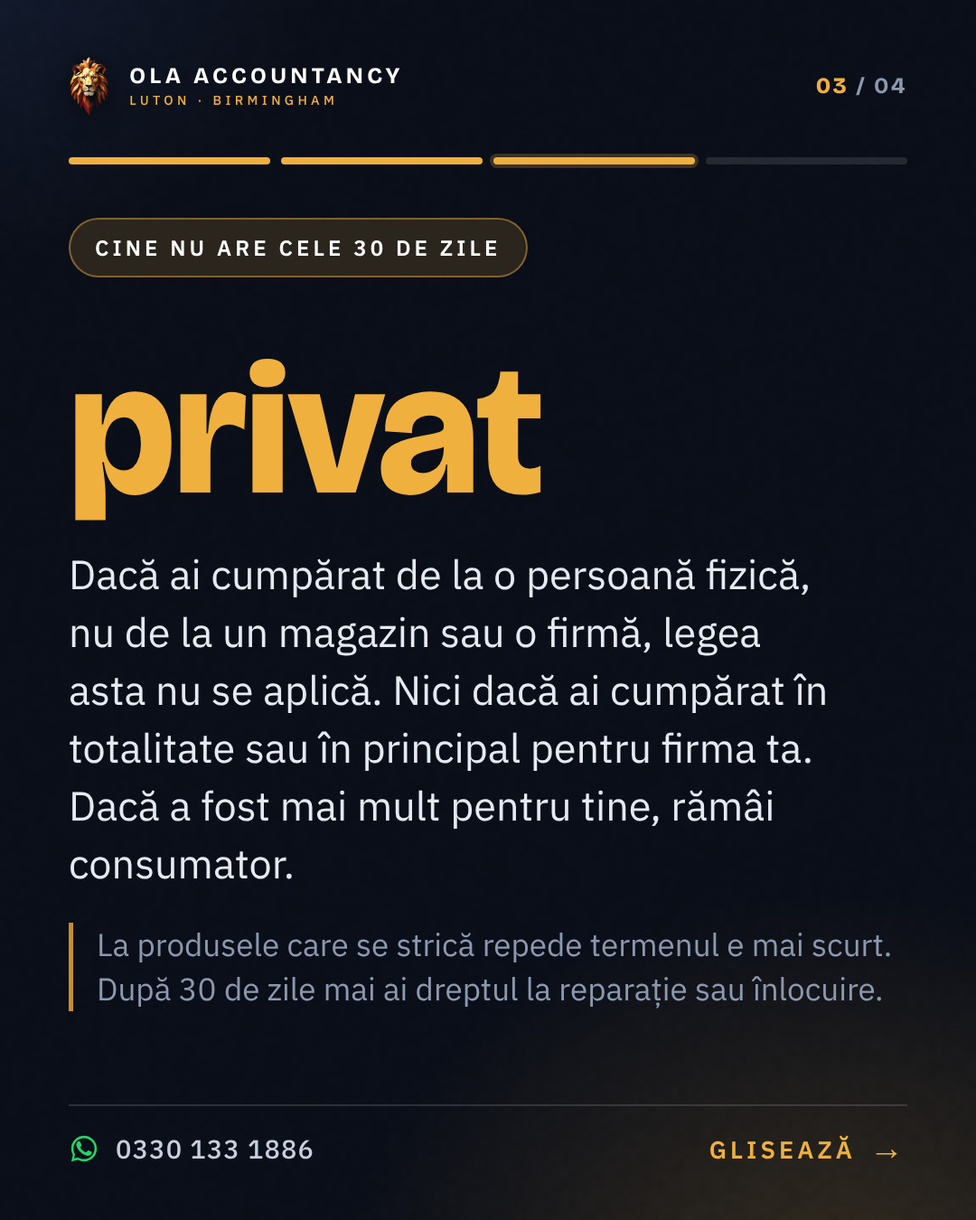
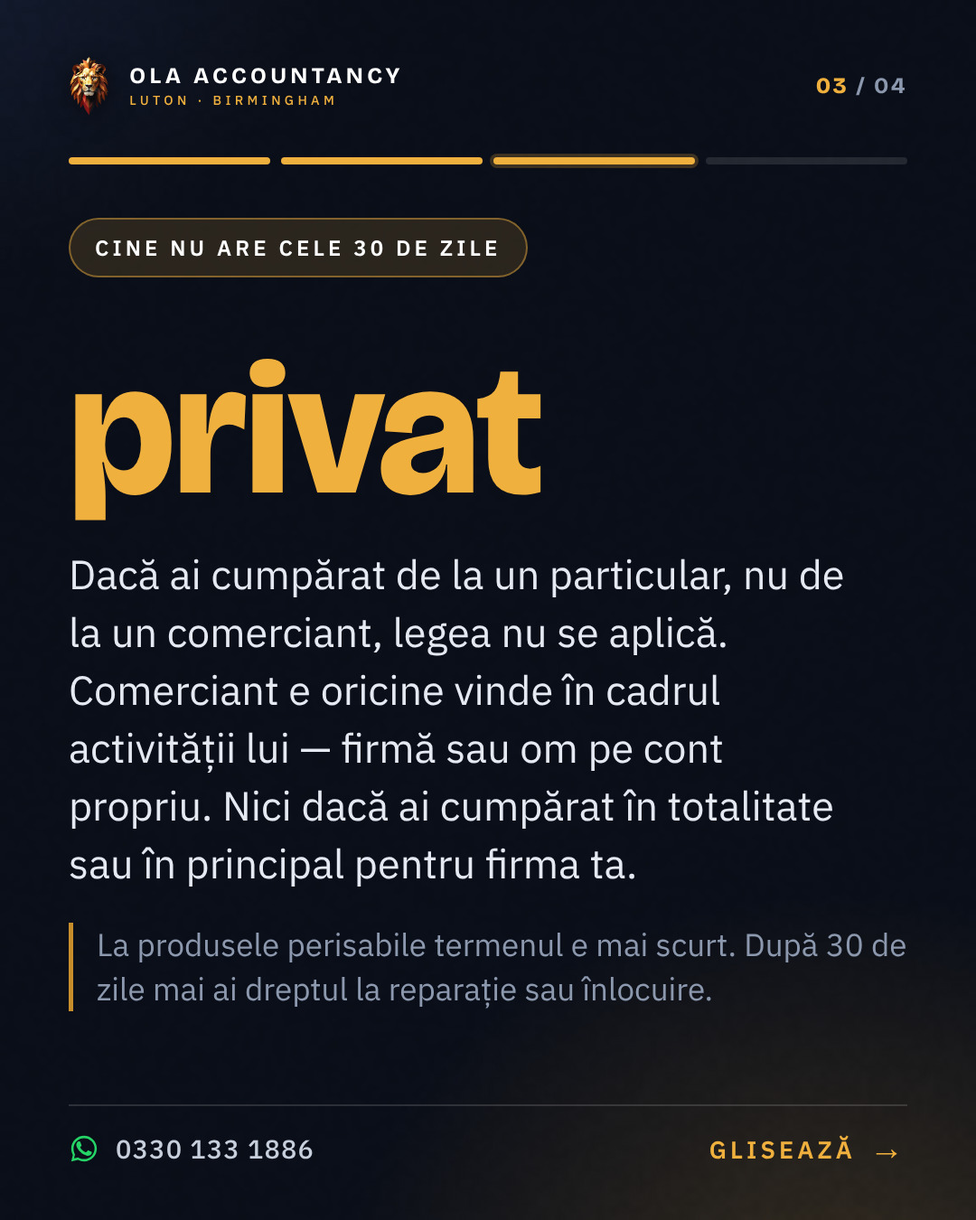
retur-30-zile: the trader test is the seller's purpose, in Romanian too
Five faults from the independent fact-checker, all at source.

1. The Romanian gave the wrong test for who the seller must be. "De la o
   persoană fizică, nu de la un magazin sau o firmă" draws the line at
   individual vs company; s.2(2) draws it at purpose — "a person acting
   for purposes relating to that person's trade, business, craft or
   profession". A self-employed plumber is a natural person and is a
   trader, and the old line told his customer the Act did not apply.
   Card 3, the long caption and the Threads caption now say particular
   vs comerciant and define comerciant as anyone selling in the course
   of their activity, firm or one-man business.
2. Card 2 dropped "undue" from s.20(15): "fără întârziere" became "fără
   întârziere nejustificată", which is what the caption already said.
3. "Se strică" is break down, not perish. s.22(4) is about goods "of a
   kind that can reasonably be expected to perish after a shorter
   period" — now "perisabile", not any product that fails early.
4. The LinkedIn day-29 example asserted an outcome s.22(7) does not
   give: the 7 days turn on the goods supplied in response still not
   conforming. The rule stays, the example goes, and s.23(6) is named —
   having asked for a repair you cannot reject until the trader has had
   a reasonable time to carry it out.
5. The Romanian third ground was "nu face ce ar trebui", a general
   "doesn't work" test. s.10(1) requires a particular purpose made known
[…]

Changed region(s): [[0.0611, 0.4667, 0.9167, 0.84]]

diff --git a/pipeline/carousel/captions.py b/pipeline/carousel/captions.py
@@ -669,33 +669,33 @@ C["employment-allowance-10500"] = dict(
 
 Nu vine singură. Se cere din programul de salarii, pentru un singur stat de plată — și se cere DIN NOU la fiecare an fiscal. Nu se reportează.
 
-Dacă n-ai cerut-o deloc, se poate cere retroactiv până la 4 ani — pentru 2022/23, până pe 5 aprilie 2027. Dar un an vechi are alte condiții: £10.500 e suma din 2025/26 încoace, iar între 6 aprilie 2022 și 5 aprilie 2025 era £5.000 pe an. Pentru 2024/25 sau mai vechi poți cere doar dacă National Insurance-ul Class 1 al firmei din anul anterior a fost sub £100.000 — barieră căzută în aprilie 2025, deci din 2025/26 nu mai există limită.
+Dacă n-ai cerut-o deloc, se poate cere retroactiv până la 4 ani — pentru 2022/23, până pe 5 aprilie 2027. Dar un an vechi are alte condiții: £10.500 e suma din 2025/26 încoace, iar între 6 aprilie 2022 și 5 aprilie 2025 era £5.000 pe an. Pentru 2024/25 sau mai vechi poți cere doar dacă Class 1-ul firmei din anul anterior a fost sub £100.000 — barieră căzută în aprilie 2025, deci din 2025/26 nu mai există limită.
 
 Cine NU poate cere deloc — firma:
-• Firma cu un singur director, dacă el e singurul angajat cu National Insurance Class 1 secundar — partea firmei, peste Secondary Threshold.
+• Firma Ltd cu un singur director, dacă el e singurul angajat cu National Insurance Class 1 secundar — partea firmei, peste Secondary Threshold. Pe cont propriu nu se aplică.
 • Instituțiile publice fără statut de caritate — primărie, consiliu local sau parohial — oricât de puțin lucrează pentru public.
 • Orice alt angajator cu peste jumătate din muncă pentru sectorul public — dar organizațiile de caritate pot cere oricum.
 • Într-un grup de firme sau de organizații de caritate legate între ele, cere una singură.
 
-Angajați pe care NU îi poți include — firma rămâne eligibilă pentru ceilalți:
+Angajați pe care NU îi poți include — firma rămâne eligibilă pentru ceilalți, dacă mai are alți angajați:
 • Angajatul care intră sub regulile off-payroll (IR35).
 • Cineva angajat pentru treburi casnice — o bonă, un grădinar — dacă nu e îngrijitor.
 
-Pot cere: firmele cu mai puțin de jumătate din muncă pentru sectorul public, organizațiile de caritate, cluburile sportive de amatori și cine angajează un îngrijitor.
+Pot cere: firmele cu sub jumătate din muncă pentru sectorul public, organizațiile de caritate, cluburile sportive de amatori și cine angajează un îngrijitor.
 
 Se aplică în tot Regatul Unit. Se cere pentru anul fiscal în curs.
 
 Nu știi dacă firma ta poate cere?""",
  th="""Employment Allowance taie până la £10.500 din National Insurance-ul Class 1 al firmei. Se cere din programul de salarii — și din nou la fiecare an fiscal. Nu se reportează.
 
-Cine NU poate cere: firma cu un singur director, dacă el e singurul angajat cu National Insurance Class 1 secundar — partea firmei.""",
+Cine NU poate cere: firma Ltd cu un singur director, dacă el e singurul angajat cu National Insurance Class 1 secundar — partea firmei.""",
  li="""Employment Allowance takes up to £10,500 off an employer's Class 1 National Insurance in a tax year. It is never automatic — it is claimed through payroll software, against one payroll only.
 
-And it is claimed again every single tax year, by Employer Payment Summary. It does not carry forward, so an employer who claimed last year and assumed it rolled over silently loses up to £10,500.
+And it is claimed again every single tax year, by Employer Payment Summary. It does not carry forward.
 
 If you never claimed at all, you can go back up to 4 years after the end of the tax year concerned — a 2022 to 2023 claim has to be made by 5 April 2027. But an earlier year is not claimed on today's terms. The allowance is £10,500 for 2025 to 2026 onwards; for each year between 6 April 2022 and 5 April 2025 it was £5,000. And to claim for 2024 to 2025 or earlier, your employers' Class 1 National Insurance liabilities must have been less than £100,000 in the previous tax year. From 2025 to 2026 onwards there is no limit — that bar was lifted in April 2025.
 
-One outright bar sits on that same page: for some businesses the allowance counts as de minimis state aid, capped over a 3-year period, and a business over the cap cannot claim. GOV.UK says that is likely where your business is both located in Northern Ireland and makes or sells goods or wholesale electricity.
+One more bar sits on that past-years page, and nowhere else: for some businesses the allowance counted as de minimis state aid, capped over 3 years, and a business over the cap could not claim — most likely where the business is both located in Northern Ireland and makes or sells goods or wholesale electricity. HMRC asks the state-aid question only if you are claiming for a previous year.
 
 Who cannot claim at all — the employer. The first is the trap for small companies:
 • A company with a single director who is its only employee liable for secondary Class 1 National Insurance.
@@ -703,39 +703,39 @@ Who cannot claim at all — the employer. The first is the trap for small compan
 • Any other employer doing more than half its work in or for the public sector — unless it is a charity, which can claim even when its functions are wholly or mainly of a public nature.
 • Within a group of connected companies or connected charities only one may claim, and an employer running several payrolls claims against only one of them.
 
-Employees you cannot include in the claim — a separate rule. The employer stays eligible and keeps claiming on everyone else:
+Employees you cannot include in the claim — a separate rule. The employer keeps claiming on everyone else, if there is anyone else — HMRC says an employer of domestic staff alone cannot claim at all:
 • An employee whose earnings fall within the off-payroll working rules.
 • Someone employed for personal, household or domestic work — a nanny, a gardener — unless they are a care or support worker.
 
 Who can: businesses doing less than half their work in the public sector, charities including community amateur sports clubs, and employers of a care or support worker.
 
-UK-wide, for the current tax year — subject to that Northern Ireland state-aid cap.
+UK-wide, for the current tax year.
 
 Want your payroll checked against the conditions?""",
  bsky="""Employment Allowance: up to £10,500 off employer Class 1 National Insurance, claimed again every tax year. It never carries forward.""",
  pin_title="Employment Allowance: £10,500 and who cannot claim",
- pin="""UK Employment Allowance takes up to £10,500 off an employer's Class 1 National Insurance in a tax year. It is never automatic and must be claimed again every new tax year. Which employers cannot claim: a company whose single director is its only employee liable for secondary Class 1, and an employer doing over half its work in the public sector unless it is a charity. Separately: the employer stays eligible but cannot include an employee in personal, household or domestic work — a nanny, a gardener — unless they are a care or support worker.""",
+ pin="""UK Employment Allowance takes up to £10,500 off an employer's Class 1 National Insurance in a tax year. It is never automatic and must be claimed again every tax year. Which employers cannot claim: a company whose single director is its only employee liable for secondary Class 1, and an employer doing over half its work in the public sector unless it is a charity. Separately, a nanny or gardener in personal, household or domestic work cannot be included unless they are a care or support worker; an employer of domestic staff alone cannot claim at all.""",
  source="gov.uk/claim-employment-allowance/eligibility, /claim-for-past-years, plus HMRC's further employer guidance",
 )
 
 C["cold-weather-25"] = dict(
- ro="""Cold Weather Payment e £25 pentru fiecare perioadă de 7 zile la rând în care temperatura medie din zona ta e zero grade sau mai jos — măsurată sau prognozată. Nu se depune nicio cerere: vine automat, în contul în care intră ajutorul, în 14 zile lucrătoare.
+ ro="""Cold Weather Payment e £25 pentru fiecare 7 zile la rând în care temperatura medie din zona ta e zero grade sau mai jos — măsurată sau prognozată. Nu se depune nicio cerere: vine automat, în contul în care intră ajutorul, în 14 zile lucrătoare.
 
 Se numără gerul dintre 1 noiembrie 2026 și 31 martie 2027, după codul poștal.
 
-Un lucru TREBUIE făcut, chiar dacă cerere nu se depune: pe Universal Credit sau pe ESA legat de venit, dacă s-a născut un copil sau dacă un copil sub 5 ani s-a mutat în casă, schimbarea de situație se anunță. Fără anunț, plata nu mai vine automat — și tocmai copilul sub 5 ani e condiția care dă dreptul.
+Un lucru TREBUIE făcut: pe Universal Credit sau pe ESA legat de venit, dacă s-a născut un copil sau dacă un copil sub 5 ani s-a mutat în casă, schimbarea de situație se anunță. Fără anunț, plata nu mai vine automat — și tocmai copilul sub 5 ani dă dreptul.
 
 Ajutoarele listate de GOV.UK:
 • Pension Credit
-• ESA legat de venit, cu condițiile ei (grupul de activitate sau de sprijin, un supliment, un copil cu dizabilitate ori un copil sub 5 ani)
+• ESA legat de venit (grupul de activitate sau de sprijin, un supliment de dizabilitate severă sau sporită ori de pensionar, un copil cu dizabilitate ori unul sub 5 ani)
 • Universal Credit, în condițiile de mai jos
-• Support for Mortgage Interest, tratat ca ajutor care califică — și numai cu un supliment, un copil cu dizabilitate ori unul sub 5 ani în casă
+• Support for Mortgage Interest, dacă solicitantul e tratat ca primind un ajutor care califică — și numai cu un supliment de dizabilitate severă sau sporită ori de pensionar, un copil cu dizabilitate ori unul sub 5 ani în casă
 
-Pe Universal Credit condițiile sunt două și trebuie îndeplinite amândouă: nici solicitantul, nici partenerul să nu fie angajat sau cu afacere activă („gainfully self-employed"), ȘI solicitantul sau partenerul să aibă o problemă de sănătate ori un handicap cu capacitate limitată de muncă, sau un copil sub 5 ani în casă. Excepție: cu suma pentru un copil cu dizabilitate în dosar, dreptul există indiferent dacă cineva muncește.
+Pe Universal Credit, amândouă condițiile: nici solicitantul, nici partenerul să nu fie angajat sau cu afacere activă („gainfully self-employed"), ȘI unul din ei să aibă o problemă de sănătate ori un handicap cu capacitate limitată de muncă, sau un copil sub 5 ani în casă. Excepție: cu suma pentru un copil cu dizabilitate în dosar, dreptul există indiferent dacă cineva muncește.
 
 Cine NU primește:
 • Cine locuiește în Scoția — acolo nu există. Cine ia un ajutor care dă dreptul primește Winter Heating Payment, o dată pe iarnă, automat și indiferent de vreme.
-• Pe Universal Credit, dosarul care nu bifează amândouă condițiile și nu are suma pentru un copil cu dizabilitate.
+• Pe Universal Credit, dosarul fără amândouă condițiile și fără suma pentru un copil cu dizabilitate.
 
 Se aplică în Anglia, Țara Galilor și Irlanda de Nord.
 
@@ -774,37 +774,37 @@ Want the official page to check it on?""",
 
 # ----------------------------------------------------------------- 15
 C["retur-30-zile"] = dict(
- ro="""Dacă un produs cumpărat de la un magazin sau o firmă e defect, nu e cum l-a descris vânzătorul sau nu face ce ar trebui, în primele 30 de zile poți cere banii înapoi. Nu doar o reparație — banii. E în Consumer Rights Act 2015, legea, nu politica magazinului.
+ ro="""Dacă un produs cumpărat de la un comerciant e defect, nu e cum l-a descris vânzătorul sau nu face ce i-ai spus că ai nevoie, în primele 30 de zile poți cere banii înapoi — nu doar o reparație. E legea, Consumer Rights Act 2015, nu politica magazinului.
 
-Cum se numără cele 30 de zile: încep a doua zi după ce produsul e al tău și ți-a fost livrat. Dacă trebuia montat sau instalat, de a doua zi după ce vânzătorul îți spune că s-a terminat.
+Cele 30 de zile încep a doua zi după ce produsul e al tău și ți-a fost livrat. Dacă trebuia montat, de a doua zi după ce vânzătorul îți spune că s-a terminat.
 
-Partea pe care puțini o știu: dacă în acest timp ceri o reparație sau o înlocuire, numărătoarea se oprește cât aștepți și pornește de unde a rămas. Iar dacă produsul vine tot defect, ai cel puțin 7 zile de atunci.
+Puțini știu asta: dacă în acest timp ceri o reparație sau o înlocuire, numărătoarea se oprește cât aștepți și pornește de unde a rămas. Iar dacă produsul vine tot defect, ai cel puțin 7 zile de atunci.
 
 Banii trebuie dați fără întârziere nejustificată și în cel mult 14 zile de când vânzătorul e de acord că ți se cuvin.
 
 Cine NU are cele 30 de zile:
-• Dacă ai cumpărat de la o persoană fizică, nu de la un magazin sau o firmă. Legea se aplică doar între un comerciant și un consumator.
+• Dacă ai cumpărat de la un particular, nu de la un comerciant — adică de la cineva care vinde în cadrul activității lui, firmă sau om pe cont propriu. Legea se aplică doar între un comerciant și un consumator.
 • Dacă ai cumpărat în totalitate sau în principal pentru afacerea ta. Dacă a fost mai mult pentru tine, rămâi „consumator".
 
 Două lucruri care NU îți iau cele 30 de zile:
-• Un defect arătat de vânzător înainte de cumpărare, sau vizibil la verificarea făcută de tine, nu mai poate fi reclamat ca proastă calitate — dar ceri banii dacă produsul nu e cum l-a descris sau nu face ce i-ai spus că ai nevoie.
-• Produsele care se strică mai repede au același drept, doar cu termen mai scurt — cât se poate aștepta rezonabil să țină chiar produsul acela, nu o listă fixă.
+• Un defect arătat de vânzător înainte de cumpărare, sau vizibil la verificarea ta, nu mai poate fi reclamat ca proastă calitate — dar ceri banii dacă produsul nu e cum l-a descris sau nu face ce i-ai spus că ai nevoie.
+• Produsele perisabile, care se alterează repede, au același drept, doar cu termen mai scurt — cât se poate aștepta rezonabil să țină acel produs, nu o listă fixă.
 
-După cele 30 de zile nu rămâi fără nimic: ai dreptul la reparație sau înlocuire, iar dacă nici asta nu merge, la o reducere de preț sau la returnarea produsului.
+După cele 30 de zile îți rămâne dreptul la reparație sau înlocuire, iar dacă nici asta nu merge, la o reducere de preț sau la returnarea produsului.
 
 Se aplică în tot Regatul Unit: Anglia, Țara Galilor, Scoția și Irlanda de Nord.
 
 Vrei să citești legea în original?""",
- th="""Produs defect cumpărat de la un magazin sau o firmă? În primele 30 de zile poți cere banii înapoi, nu doar o reparație. Banii vin în cel mult 14 zile de când vânzătorul e de acord.
+ th="""Produs defect cumpărat de la un comerciant? În primele 30 de zile poți cere banii înapoi, nu doar o reparație. Banii vin în cel mult 14 zile de când vânzătorul e de acord.
 
-Dacă ai cumpărat de la o persoană fizică, nu de la o firmă, legea asta nu se aplică.""",
+Comerciant e oricine vinde în cadrul activității lui, firmă sau om pe cont propriu. De la un particular, legea nu se aplică.""",
  li="""The short-term right to reject is 30 days, and most people spend it without knowing they had it.
 
 If goods bought from a trader are faulty, not as described, or not fit for a purpose you made known, the Consumer Rights Act 2015 gives you 30 days to reject them and take a refund — not a repair, not a credit note.
 
 How the 30 days are counted: they begin the day after ownership or possession has passed to you and the goods have been delivered. Where the contract required installation, they begin the day after the trader tells you it is done.
 
-The part almost nobody knows: if you ask for or agree to a repair or a replacement inside that window, the clock stops for the waiting period and resumes where it left off. And if what the trader supplies in response still does not conform, section 22(7) makes the limit 7 days after the waiting period ends — or the original limit extended by that period, if that is later. A repair asked for on day 29 leaves 7 days, not one.
+The part almost nobody knows: if you ask for or agree to a repair or a replacement inside that window, the clock stops for the waiting period and resumes where it left off. And if what the trader supplies in response still does not conform, section 22(7) makes the limit 7 days after the waiting period ends — or the original limit extended by that period, if that is later. That is the rule for a repair that fails: if it works, what is left is the days that were left. And section 23(6) runs the other way: once you have asked for a repair, you cannot reject until the trader has had a reasonable time to carry it out, unless that would significantly inconvenience you.
 
 A refund must be given without undue delay and in any event within 14 days of the trader agreeing you are entitled to one.
 
@@ -812,7 +812,7 @@ Who does not have the 30 days:
 • Anyone who bought from a private individual rather than a trader. Part 1 applies to a contract between a trader and a consumer, so a private sale sits outside it entirely.
 • Anyone buying for purposes wholly or mainly inside their own business — not a consumer for these purposes.
 
-Two things that do NOT take the 30 days away, although they are often read as if they did:
+Two things that do NOT take the 30 days away:
 • A fault specifically drawn to the buyer's attention before the contract, or one an examination the buyer actually made ought to have revealed. Section 9(4) takes that fault outside the satisfactory quality term only. The other two grounds are untouched: if the goods are not as described, or not fit for a purpose made known to the trader, the 30-day right to reject is still there.
 • Goods that can reasonably be expected to perish sooner. They carry the same right on a shorter period — the end of the period they can reasonably be expected to last. The Act names no categories: the test is applied to the goods actually bought.
 

diff --git a/pipeline/carousel/topics.py b/pipeline/carousel/topics.py
@@ -1118,12 +1118,12 @@ COLD_WEATHER = dict(
     dict(type="hook",
          kicker="Iarna 2026/27 · Cold Weather Payment",
          h1="<em>£25</em> pentru 7 zile la rând de ger.",
-         say="Dacă primești unul dintre câteva ajutoare, îndeplinești condițiile lui și în zona ta media e zero grade sau mai jos șapte zile la rând, banii vin automat în cont. Cerere nu se depune — dar un copil nou în casă se anunță."),
+         say="Dacă primești unul dintre câteva ajutoare, îndeplinești condițiile lui și în zona ta media e zero grade sau mai jos șapte zile la rând, de regulă banii vin automat în cont. Cerere nu se depune — dar un copil nou în casă se anunță."),
     dict(type="step", step="Pe ce ajutoare se dă", fig="4",
          say="Pension Credit, Universal Credit, Employment and Support Allowance legat de venit, sau Support for Mortgage Interest. Fiecare cu propriile condiții.",
          note="Banii vin în <b>14 zile lucrătoare</b>. Gerul se numără între 1 noiembrie 2026 și 31 martie 2027, după codul poștal. În Scoția nu există: cine ia un ajutor care dă dreptul primește Winter Heating Payment, o dată pe iarnă."),
     dict(type="step", step="Cine NU primește", fig="2 condiții",
-         say="Pe Universal Credit, amândouă: solicitantul și partenerul să nu fie angajați ori pe cont propriu ca ocupație principală, regulat și cu profit, ȘI unul din ei cu boală care limitează munca sau copil sub 5 ani.",
+         say="Pe Universal Credit, amândouă: solicitantul și partenerul să nu fie angajați ori pe cont propriu ca ocupație principală, regulat și cu profit, ȘI unul din ei cu „capacitate limitată de muncă” stabilită oficial, sau copil sub 5 ani.",
          note="Cu suma pentru un copil cu dizabilitate se dă oricum. Un copil nou-născut sau un copil sub 5 ani mutat în casă se anunță — altfel nu mai vine automat."),
   ],
   CTA_RO=dict(type="cta",
@@ -1136,7 +1136,7 @@ COLD_WEATHER = dict(
     dict(type="hook",
          kicker="Winter 2026/27 · Cold Weather Payment",
          h1="<em>£25</em> for each 7 days running at zero or below.",
-         say="If you get one of a short list of benefits, meet that benefit's own conditions, and the average temperature where you live sits at zero or below for seven days running, money goes into your account. Nothing to claim — but a new child in the house has to be reported."),
+         say="If you get one of a short list of benefits, meet that benefit's own conditions, and the average temperature where you live sits at zero or below for seven days running, you'll usually get the money in your account. Nothing to claim — but a new child in the house has to be reported."),
     dict(type="step", step="Which benefits it runs on", fig="4",
          say="Pension Credit, Universal Credit, income-related Employment and Support Allowance, or Support for Mortgage Interest — each with its own conditions.",
          note="Paid within <b>14 working days</b>, for cold spells from 1 Nov 2026 to 31 Mar 2027, by postcode. Not in Scotland — a qualifying benefit brings Winter Heating Payment there, once a winter."),
@@ -1204,6 +1204,19 @@ COLD_WEATHER = dict(
      "legislation.gov.uk was not reachable from the repair session's proxy, so the quotations "
      "here are the fact-checker's, not re-read in that session",
      "https://www.legislation.gov.uk/uksi/1988/1724", "2026-11-07"),
+    ("Re-read for round three, and legislation.gov.uk WAS reachable this time. Reg "
+     "1A(3)(f)(ii): \"P has limited capability for work or limited capability for work and "
+     "work-related activity as construed in accordance with regulations 39 and 40 of the "
+     "Universal Credit Regulations 2013\" — so GOV.UK's \"limited capability for work (with or "
+     "without work-related activity)\" is a formal determination under those regulations and "
+     "not a description of being unwell. No card may render it as an illness that limits work. "
+     "Reg 1A(4) also bars a person residing in a care home, an independent hospital, an "
+     "Abbeyfield Society establishment or Polish Resettlement Act 1947 accommodation, except "
+     "where the under-5 or disabled-child limb applies, and reg 2(6) bars payment more than 26 "
+     "weeks after the winter period ends. None of that is under GOV.UK's Eligibility heading, "
+     "which is why every GOV.UK benefit heading reads \"You'll usually get Cold Weather "
+     "Payments if...\" — the hedge is what the cards carry, not the detail",
+     "https://www.legislation.gov.uk/uksi/1988/1724/regulation/1A", "2026-11-07"),
   ],
   SCOPE=dict(
     nation="England, Wales and Northern Ireland only. NOT Scotland — GOV.UK states plainly "
@@ -1270,13 +1283,13 @@ RETURN_30_DAYS = dict(
     dict(type="hook",
          kicker="Drepturile cumpărătorului · 30 de zile",
          h1="Ai <em>30 de zile</em> să ceri banii înapoi pe un produs defect.",
-         say="Nu e politica magazinului, e legea: Consumer Rights Act 2015. Dacă produsul e defect, nu e cum l-a descris vânzătorul sau nu face ce ar trebui, ceri banii — nu doar o reparație."),
+         say="Nu e politica magazinului, e legea: Consumer Rights Act 2015. Dacă produsul e defect, nu e cum l-a descris vânzătorul sau nu face ce i-ai spus că ai nevoie, ceri banii — nu doar o reparație."),
     dict(type="step", step="Cele 30 de zile, exact", fig="30",
          say="Se numără de a doua zi după ce ai primit produsul și a devenit al tău. Dacă ceri reparație sau înlocuire, numărătoarea se oprește cât aștepți — iar dacă produsul primit e tot defect, ai cel puțin 7 zile de atunci.",
-         note="Banii trebuie dați fără întârziere și în cel mult <b>14 zile</b> de când vânzătorul e de acord că ți se cuvin."),
+         note="Banii trebuie dați fără întârziere nejustificată și în cel mult <b>14 zile</b> de când vânzătorul e de acord că ți se cuvin."),
     dict(type="step", step="Cine NU are cele 30 de zile", fig="privat",
-         say="Dacă ai cumpărat de la o persoană fizică, nu de la un magazin sau o firmă, legea asta nu se aplică. Nici dacă ai cumpărat în totalitate sau în principal pentru firma ta. Dacă a fost mai mult pentru tine, rămâi consumator.",
-         note="La produsele care se strică repede termenul e mai scurt. După 30 de zile mai ai dreptul la reparație sau înlocuire."),
+         say="Dacă ai cumpărat de la un particular, nu de la un comerciant, legea nu se aplică. Comerciant e oricine vinde în cadrul activității lui — firmă sau om pe cont propriu. Nici dacă ai cumpărat în totalitate sau în principal pentru firma ta.",
+         note="La produsele perisabile termenul e mai scurt. După 30 de zile mai ai dreptul la reparație sau înlocuire."),
   ],
   CTA_RO=dict(type="cta",
     kicker="Drepturile cumpărătorului · 30 de zile",
@@ -1317,6 +1330,18 @@ RETURN_30_DAYS = dict(
      "is longer), within which they can still exercise the short-term right to reject if "
      "the goods still breach the standards set by the Act.\"",
      "https://www.legislation.gov.uk/ukpga/2015/15/section/22/notes", "2026-11-07"),
+    ("Section 2(2): \"'Trader' means a person acting for purposes relating to that person's "
+     "trade, business, craft or profession, whether acting personally or through another person "
+     "acting in the trader's name or on the trader's behalf.\" The test is the seller's purpose, "
+     "not whether the seller is a natural person or a company: a sole trader, a self-employed "
+     "tradesman or a market trader is a person and is a trader. Section 2(7): \"'Business' "
+     "includes the activities of any government department or local or public authority.\"",
+     "https://www.legislation.gov.uk/ukpga/2015/15/section/2", "2026-11-07"),
+    ("Section 23(6): \"A consumer who requires or agrees to the repair of goods cannot require "
+     "the trader to replace them, or exercise the short-term right to reject, without giving the "
+     "trader a reasonable time to repair them (unless giving the trader that time would cause "
+     "significant inconvenience to the consumer).\"",
+     "https://www.legislation.gov.uk/ukpga/2015/15/section/23", "2026-11-07"),
     ("Section 2(3): \"'Consumer' means an individual acting for purposes that are wholly "
      "or mainly outside that individual's trade, business, craft or profession.\" So a "
      "dual-purpose purchase that is mainly private keeps consumer status. Section 2(4): "
@@ -1364,8 +1389,12 @@ RETURN_30_DAYS = dict(
               "the buyer, nothing is automatic. If a repair or replacement is requested the 30 "
               "days stop running for the waiting period, and under s.22(7), if the goods supplied "
               "in response still do not conform, the limit becomes 7 days after that period ends "
-              "or the original limit extended by it, whichever is later — so a repair asked for on "
-              "day 29 leaves 7 days, not 1."),
+              "or the original limit extended by it, whichever is later. That turns on the goods "
+              "supplied in response still not conforming: if the repair works, what is left is "
+              "simply the days that were left, so no worked example can promise 7 days. And under "
+              "s.23(6) a consumer who requires or agrees to a repair cannot require a replacement "
+              "or exercise the short-term right to reject without giving the trader a reasonable "
+              "time to repair, unless that time would cause the consumer significant inconvenience."),
 )
 
 DAY = [MILEAGE_55P, LTD_DEADLINES, EMPLOYMENT_ALLOWANCE, COLD_WEATHER, RETURN_30_DAYS]
